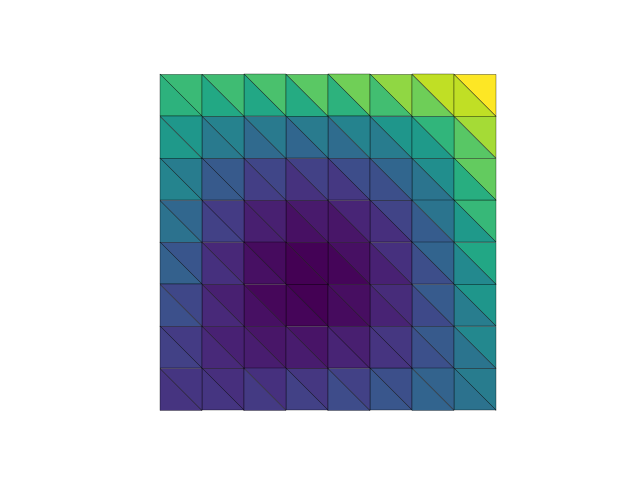
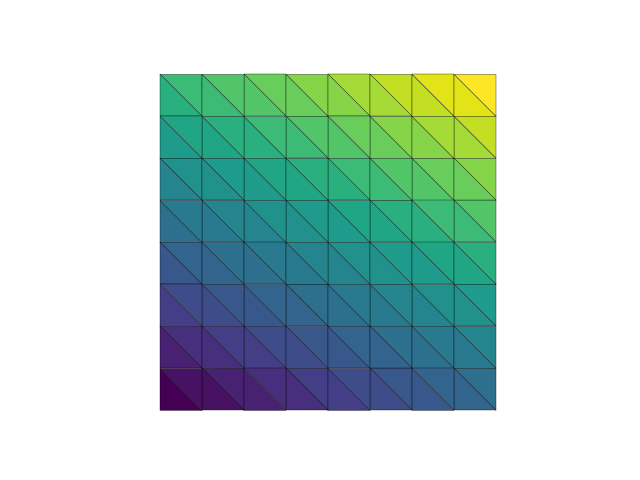
root, fixes #2

Changed region(s): [[0.25, 0.1562, 0.7812, 0.875]]

diff --git a/05_poisson_nonlinear/st05_poisson_nonlinear.py b/05_poisson_nonlinear/st05_poisson_nonlinear.py
@@ -1,58 +1,84 @@
 from pathlib import Path
 
+import numpy as np
+from scipy.optimize import root
+
 from sympy import symbols
 from sympy.vector import CoordSys3D, gradient, divergence
 from sympy.utilities.lambdify import lambdify
 
 from skfem import (MeshTri, InteriorBasis, ElementTriP1,
-                   linear_form, asm, solve, condense)
+                   bilinear_form, linear_form, asm, solve, condense)
 from skfem.models.poisson import laplace
 
+
 output_dir = Path('poisson_nonlinear')
+
 try:
     output_dir.mkdir()
 except FileExistsError:
     pass
 
-R = CoordSys3D('R')
-
-u = 1 + R.x + 2*R.y
 
 def q(u):
     """Return nonlinear coefficient"""
     return 1 + u**2
 
-f = -divergence(q(u) * gradient(u))
 
-print('u:', u)
-print('f:', f)
+R = CoordSys3D('R')
+
+
+def apply(f, coords):
+    x, y = symbols('x y')
+    return lambdify((x, y), f.subs({R.x: x, R.y: y}))(*coords)
+
+
+u_exact = 1 + R.x + 2*R.y                  # exact solution
+f = -divergence(q(u_exact) * gradient(u_exact))  # manufactured RHS 
 
 mesh = MeshTri()
 mesh.refine(3)
 
 V = InteriorBasis(mesh, ElementTriP1())
 
-def funcify(f):
-    x, y = symbols('x y')
-    return lambdify((x, y), f.subs({R.x: x, R.y: y}))
-
-u_D = funcify(u)
-
-u = u_D(*mesh.p)
-mesh.plot(u).get_figure().savefig(str(output_dir.joinpath('initial.png')))
-
-f_f = funcify(f)
-
-@linear_form
-def load(v, dv, w):
-    return v * f_f(*w.x)
-
-a = asm(laplace, V)
-b = asm(load, V)
-
 boundary = V.get_dofs().all()
 interior = V.complement_dofs(boundary)
 
-u[interior] = solve(*condense(a, b, u, D=boundary))
 
-mesh.plot(u).get_figure().savefig(str(output_dir.joinpath('solution.png')))
+@linear_form
+def load(v, dv, w):
+    return v * apply(f, w.x)
+
+
+b = asm(load, V)
+
+
+@bilinear_form
+def diffusion_form(u, du, v, dv, w):
+    return sum(dv * (q(w.w) * du))
+
+
+def diffusion_matrix(u):
+    return asm(diffusion_form, V, w=V.interpolate(u))
+
+dirichlet = apply(u_exact, mesh.p)    # P1 nodal interpolation
+mesh.plot(u).get_figure().savefig(str(output_dir.joinpath('exact.png')))
+
+
+def residual(u):
+    r = b - diffusion_matrix(u) @ u
+    r[boundary] = 0.
+    return r
+
+
+u = np.zeros(V.N)
+u[boundary] = dirichlet[boundary]
+result = root(residual, u, method='krylov')
+
+if result.success:
+    u = result.x
+    print('Success: residual =', np.linalg.norm(residual(u), np.inf))
+    print(' or nodally Linf:', np.linalg.norm(u - dirichlet, np.inf))
+    mesh.plot(u).get_figure().savefig(str(output_dir.joinpath('solution.png')))
+else:
+    print(result)

diff --git a/05_poisson_nonlinear/README.md b/05_poisson_nonlinear/README.md
@@ -2,10 +2,10 @@ Translation into scikit-fem from FEniCS of
 [ft05_poisson_nonlinear.py](https://fenicsproject.org/pub/tutorial/python/vol1/ft05_poisson_nonlinear.py)
 as discussed in [‘A nonlinear Poisson equation’](https://fenicsproject.org/pub/tutorial/html/._ftut1007.html#ftut1:gallery:nonlinearpoisson).
 
-The big new feature here is the use of [SymPy](https://sympy.org) to manufacture the right-hand side from an assumed solution.
+The big new features here are:
+* the use of [SymPy](https://sympy.org) to manufacture the right-hand side from an assumed solution
+* the use of [scipy.optimize.root](https://docs.scipy.org/doc/scipy/reference/generated/scipy.optimize.root.html#scipy.optimize.root) as the nonlinear solver
 
-![initial.png](poisson_nonlinear/initial.png)(*a*) ![solution.png](poisson_nonlinear/solution.png)(*b*)
+![exact.png](poisson_nonlinear/exact.png)(*a*) ![solution.png](poisson_nonlinear/solution.png)(*b*)
 
-*Figure:—* (*a*) initial condition and (*b*) exact solution, both should be equal to, 1 + _x_ + 2 _y_
-
-*Figure:—* Initial condition, 1 + _x_ + 2 _y_
+*Figure:—* (*a*) exact 1 + _x_ + 2 _y_ and (*b*) numerical solutions
